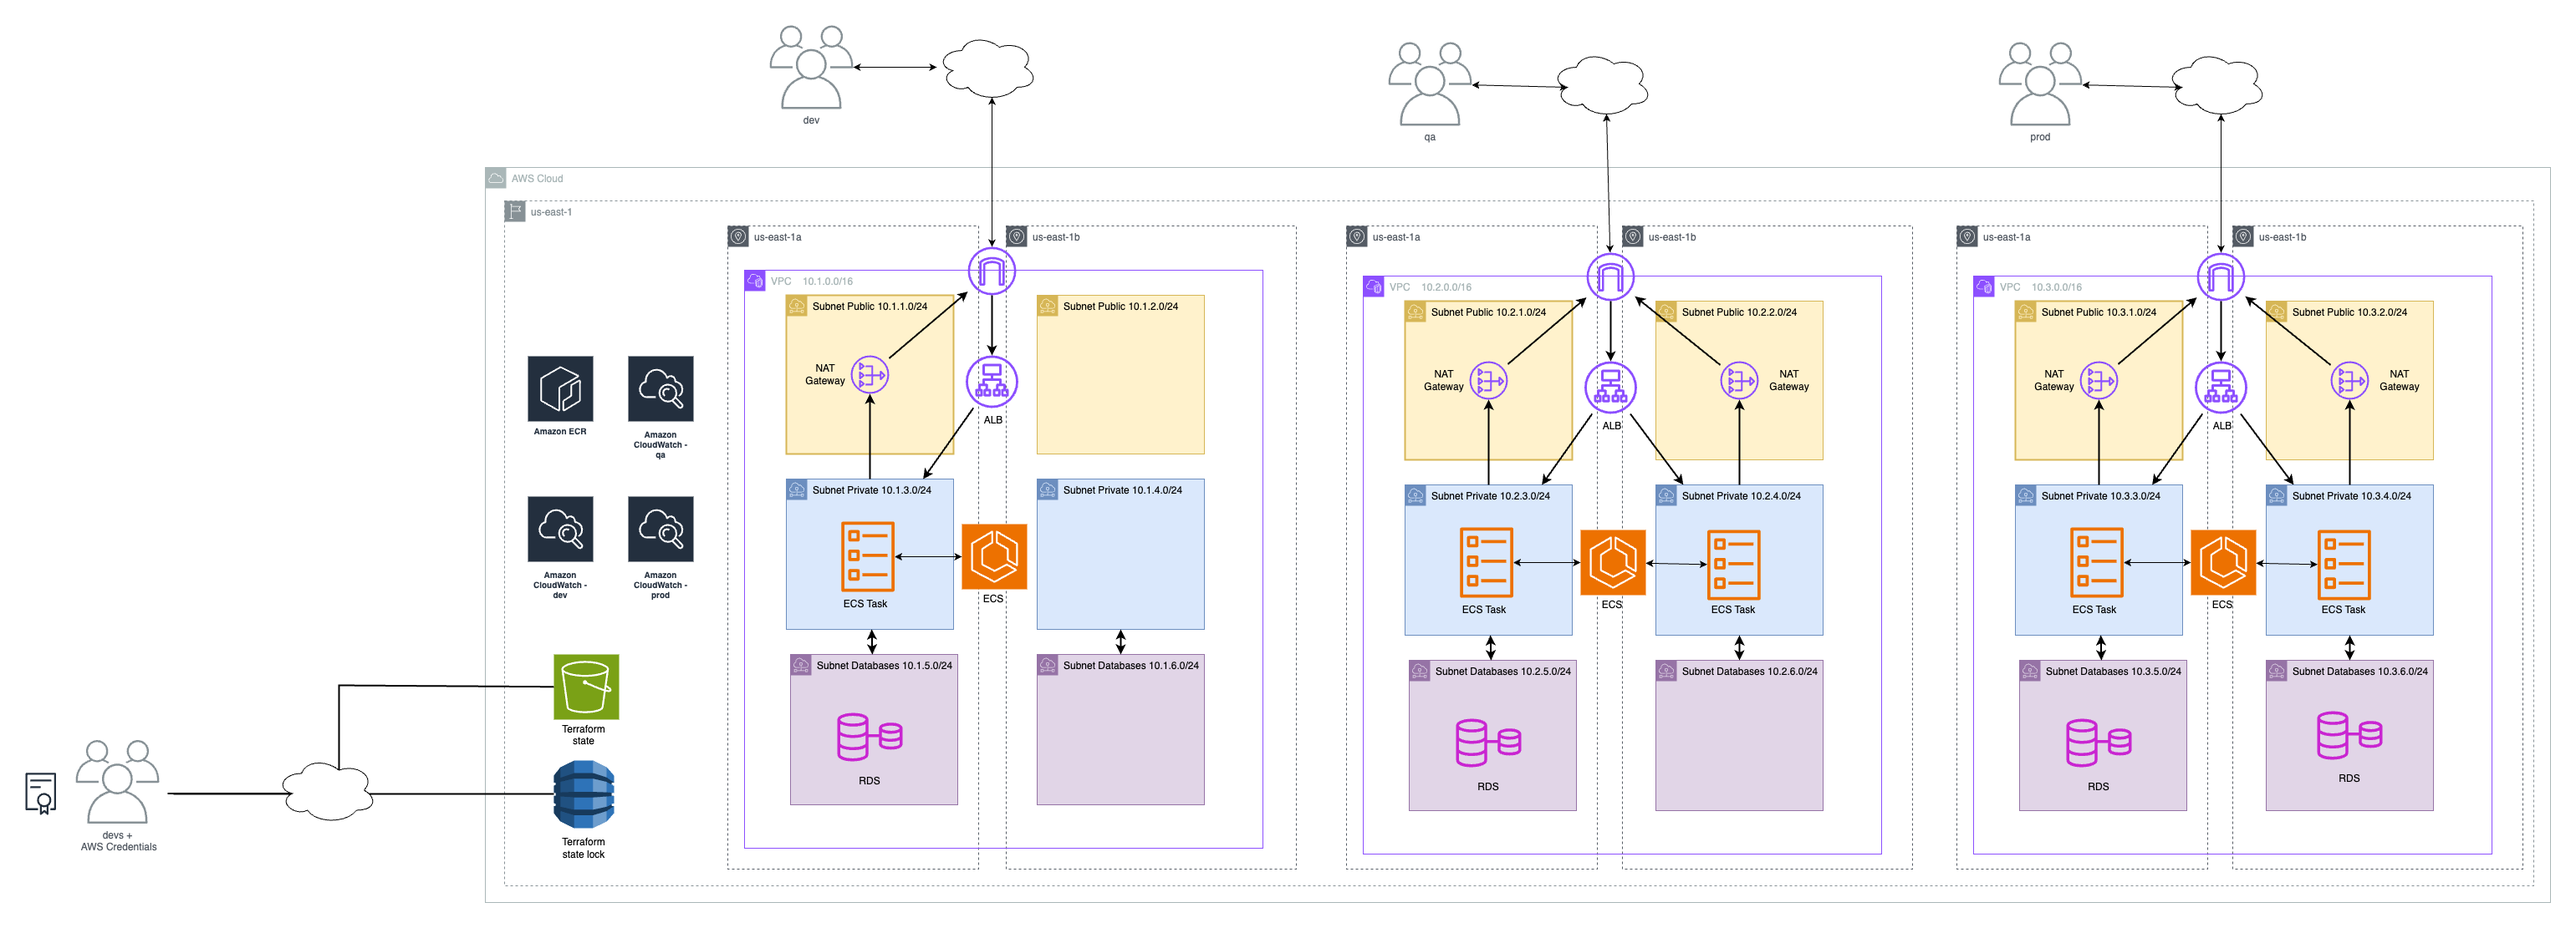
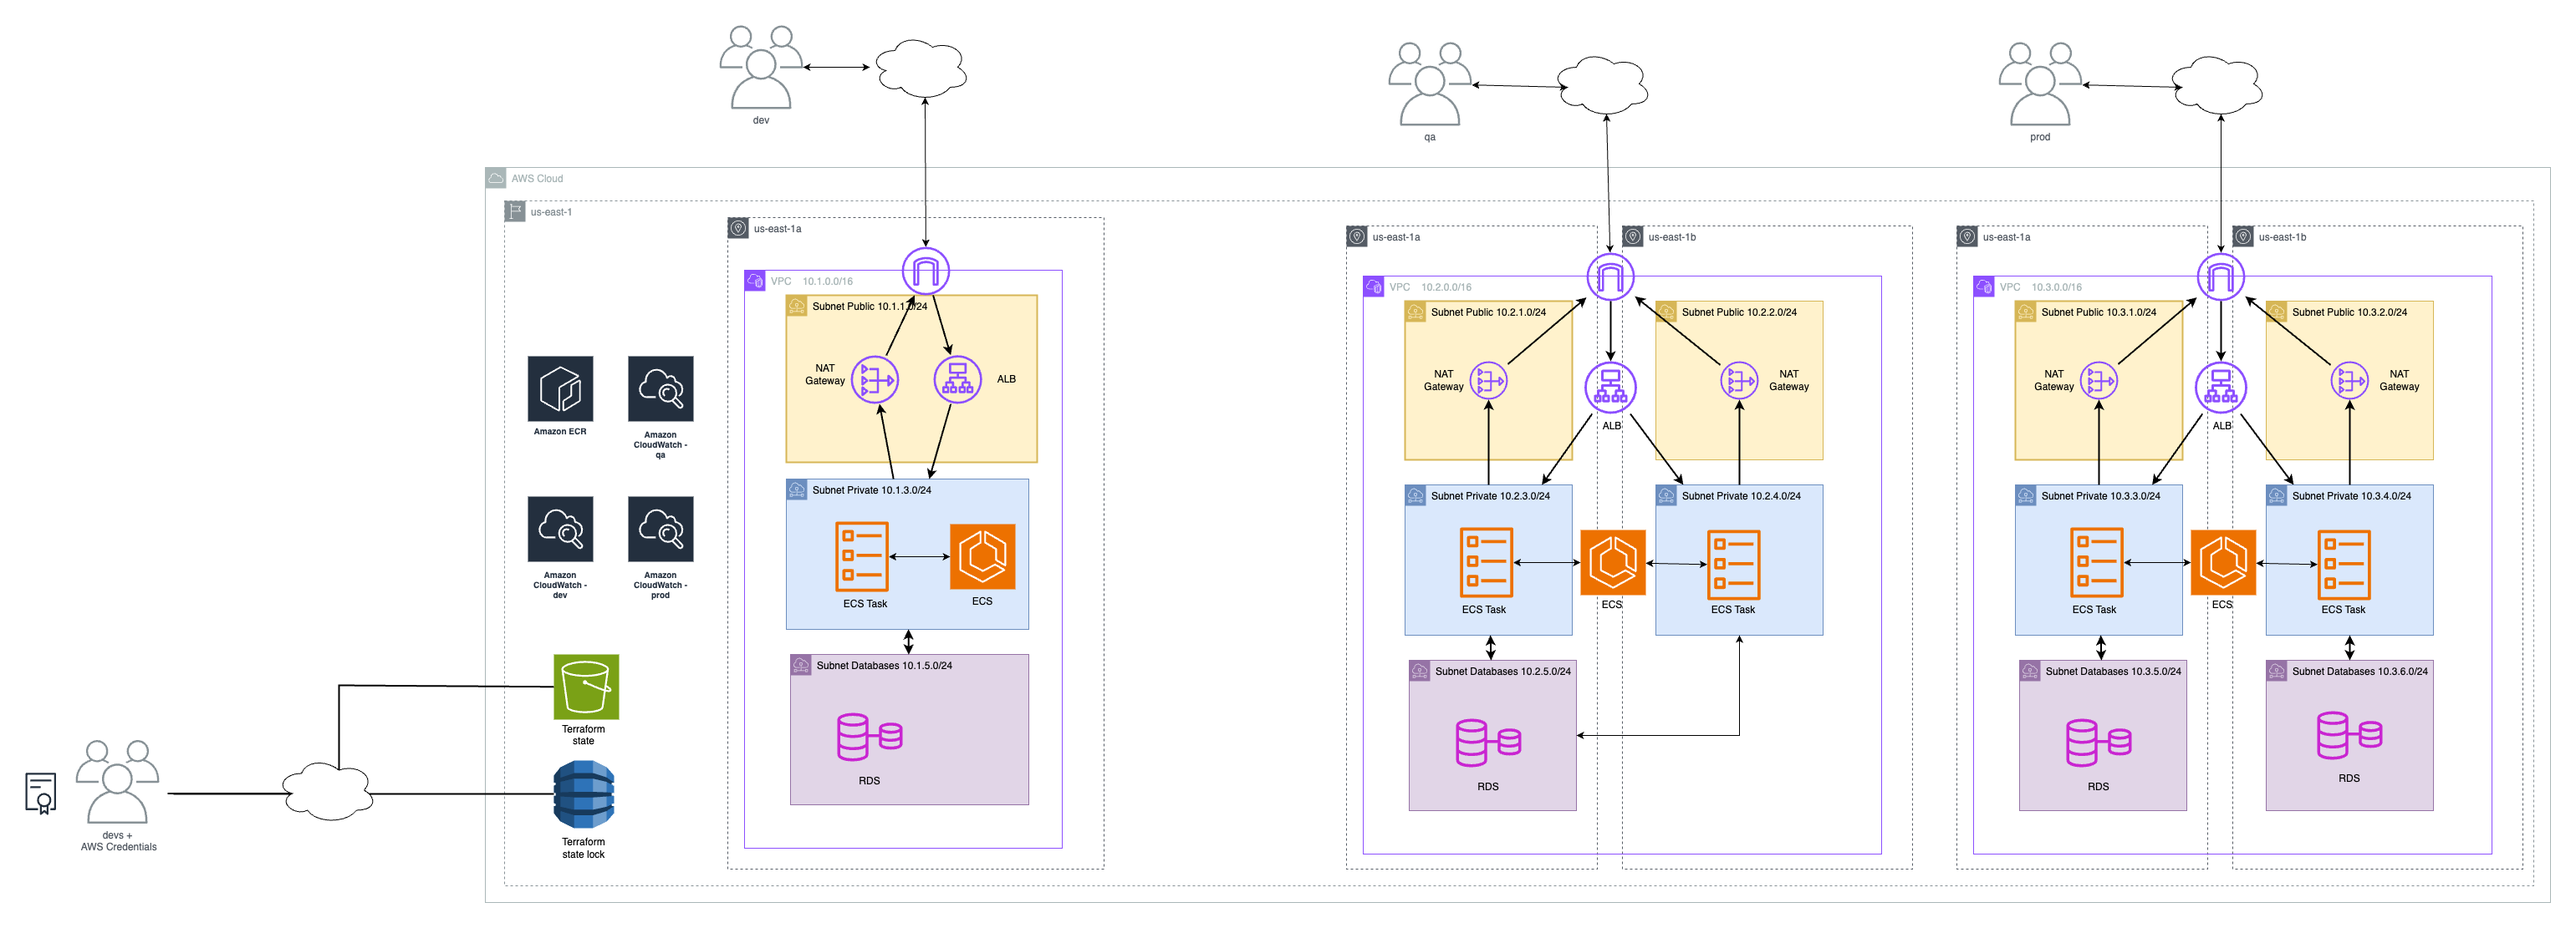
updated to correct architecture diagram

diff --git a/README.md b/README.md
@@ -11,12 +11,14 @@ The goal of the web application is to create a community of readers, where all o
 For example, let's imagine the user Marco, who enjoys reading philosophy in multiple languages. Thanks to other readers with German heritage (for example), he can borrow a philosophy book from a German author that he could not have read by going to a library in Argentina.
 
 
-## Terraform
+## Architecture
 
-The LendARead architecture is deployed through terraform as part of a 3-tier architecture. This is a simplified version as it does not hold the SPA in a S3 bucket, but it clearly exemplifies a correct separation of concerns
+The LendARead architecture is deployed through terraform as part of a 3-tier architecture. In addition, the current project builds three versions: dev, qa, prod thus providing a devops approach to the deployment of LendARead.
 
 ![Cloud Diagram](LendARead2-AWS/cloud.png)
 
+The diagram shows the three different versions of the same architecture design. Due to time constraints the actual deployments of dev and qa do not fully optimize deployments as per the diagram (it's more like two more prod enviroments
+but without database and task replication).
 ## CI/CD Setup
 
 To begin the pipeline one should first initialize the s3 bucket and dynamo table to hold both the terraform state as well as a lock to prevent incosistencies in the terraform state stored in the s3. To initialize the architecture one should push the tag `init`
